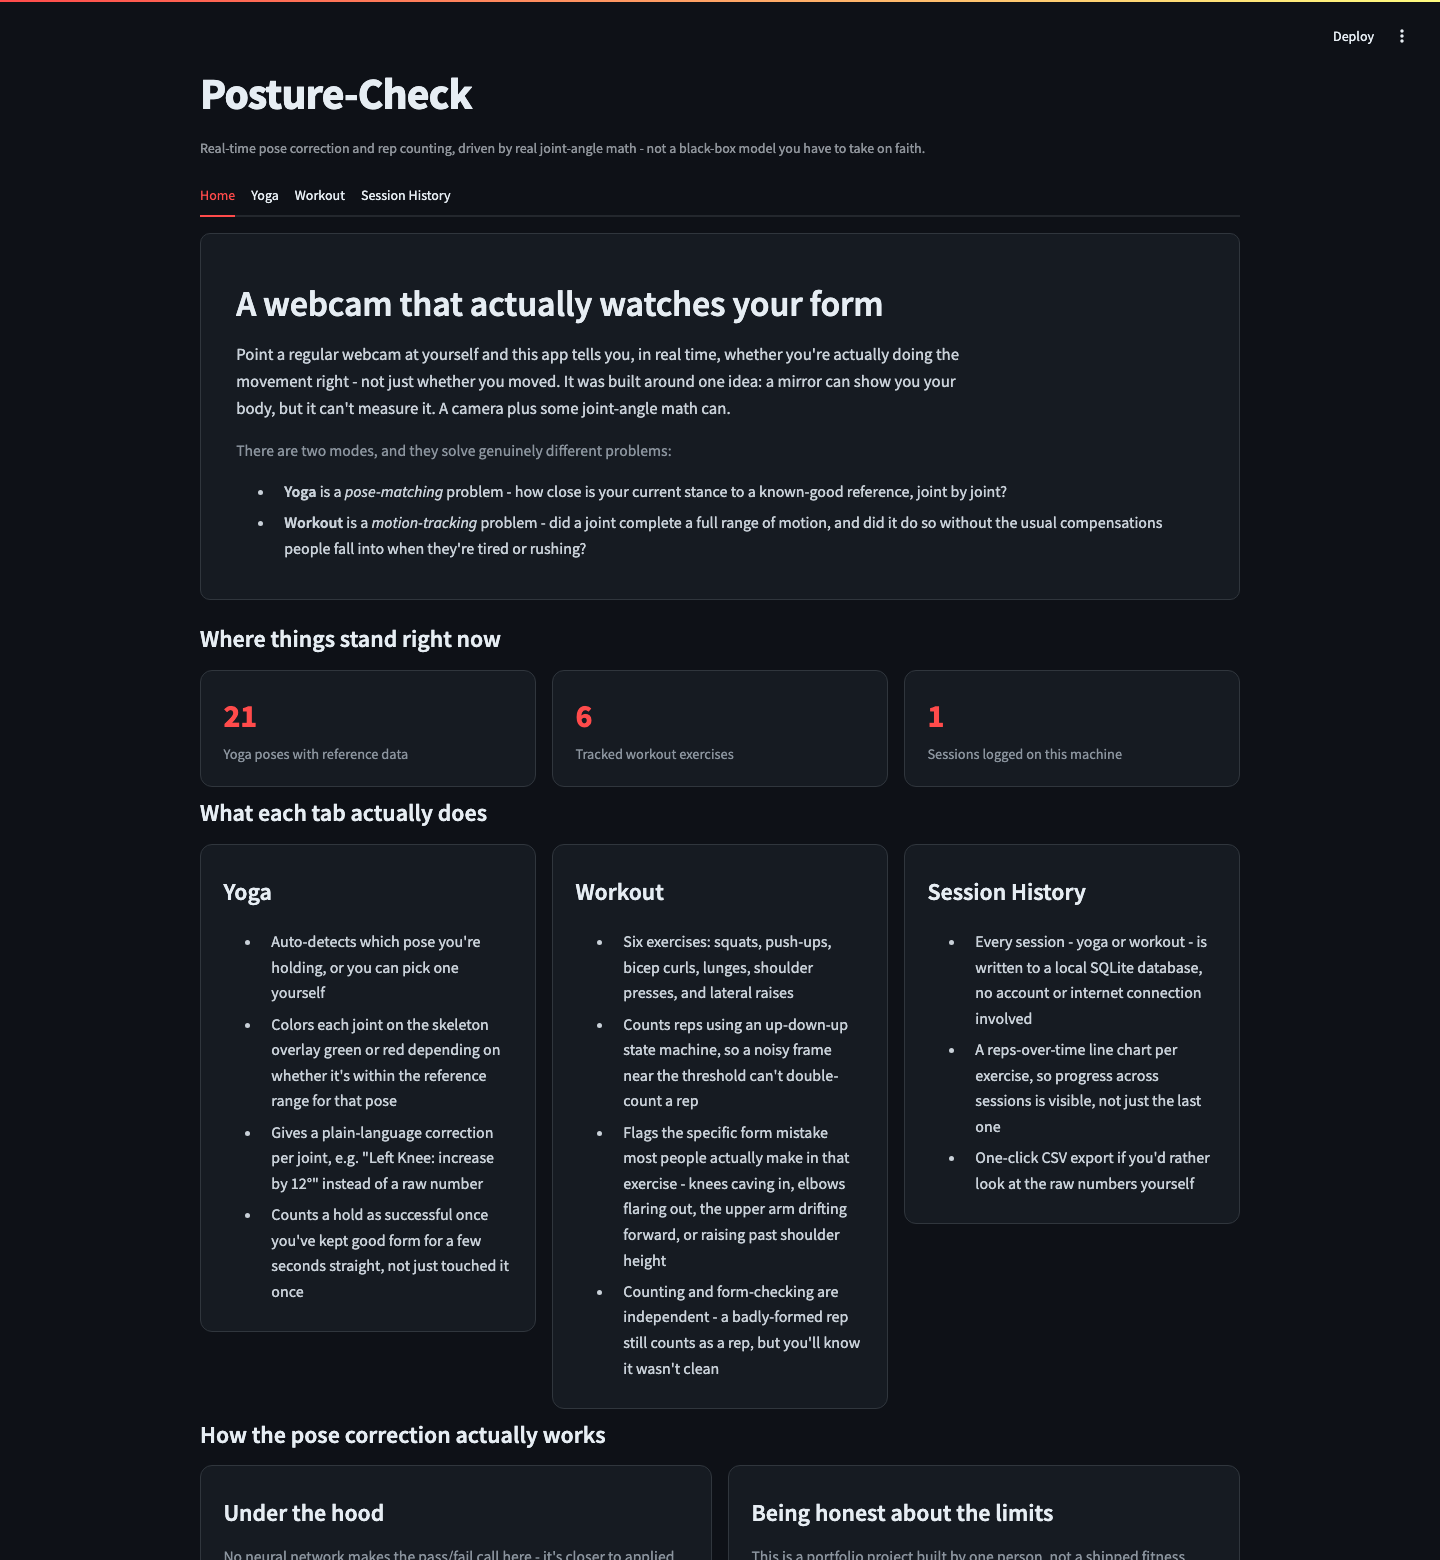
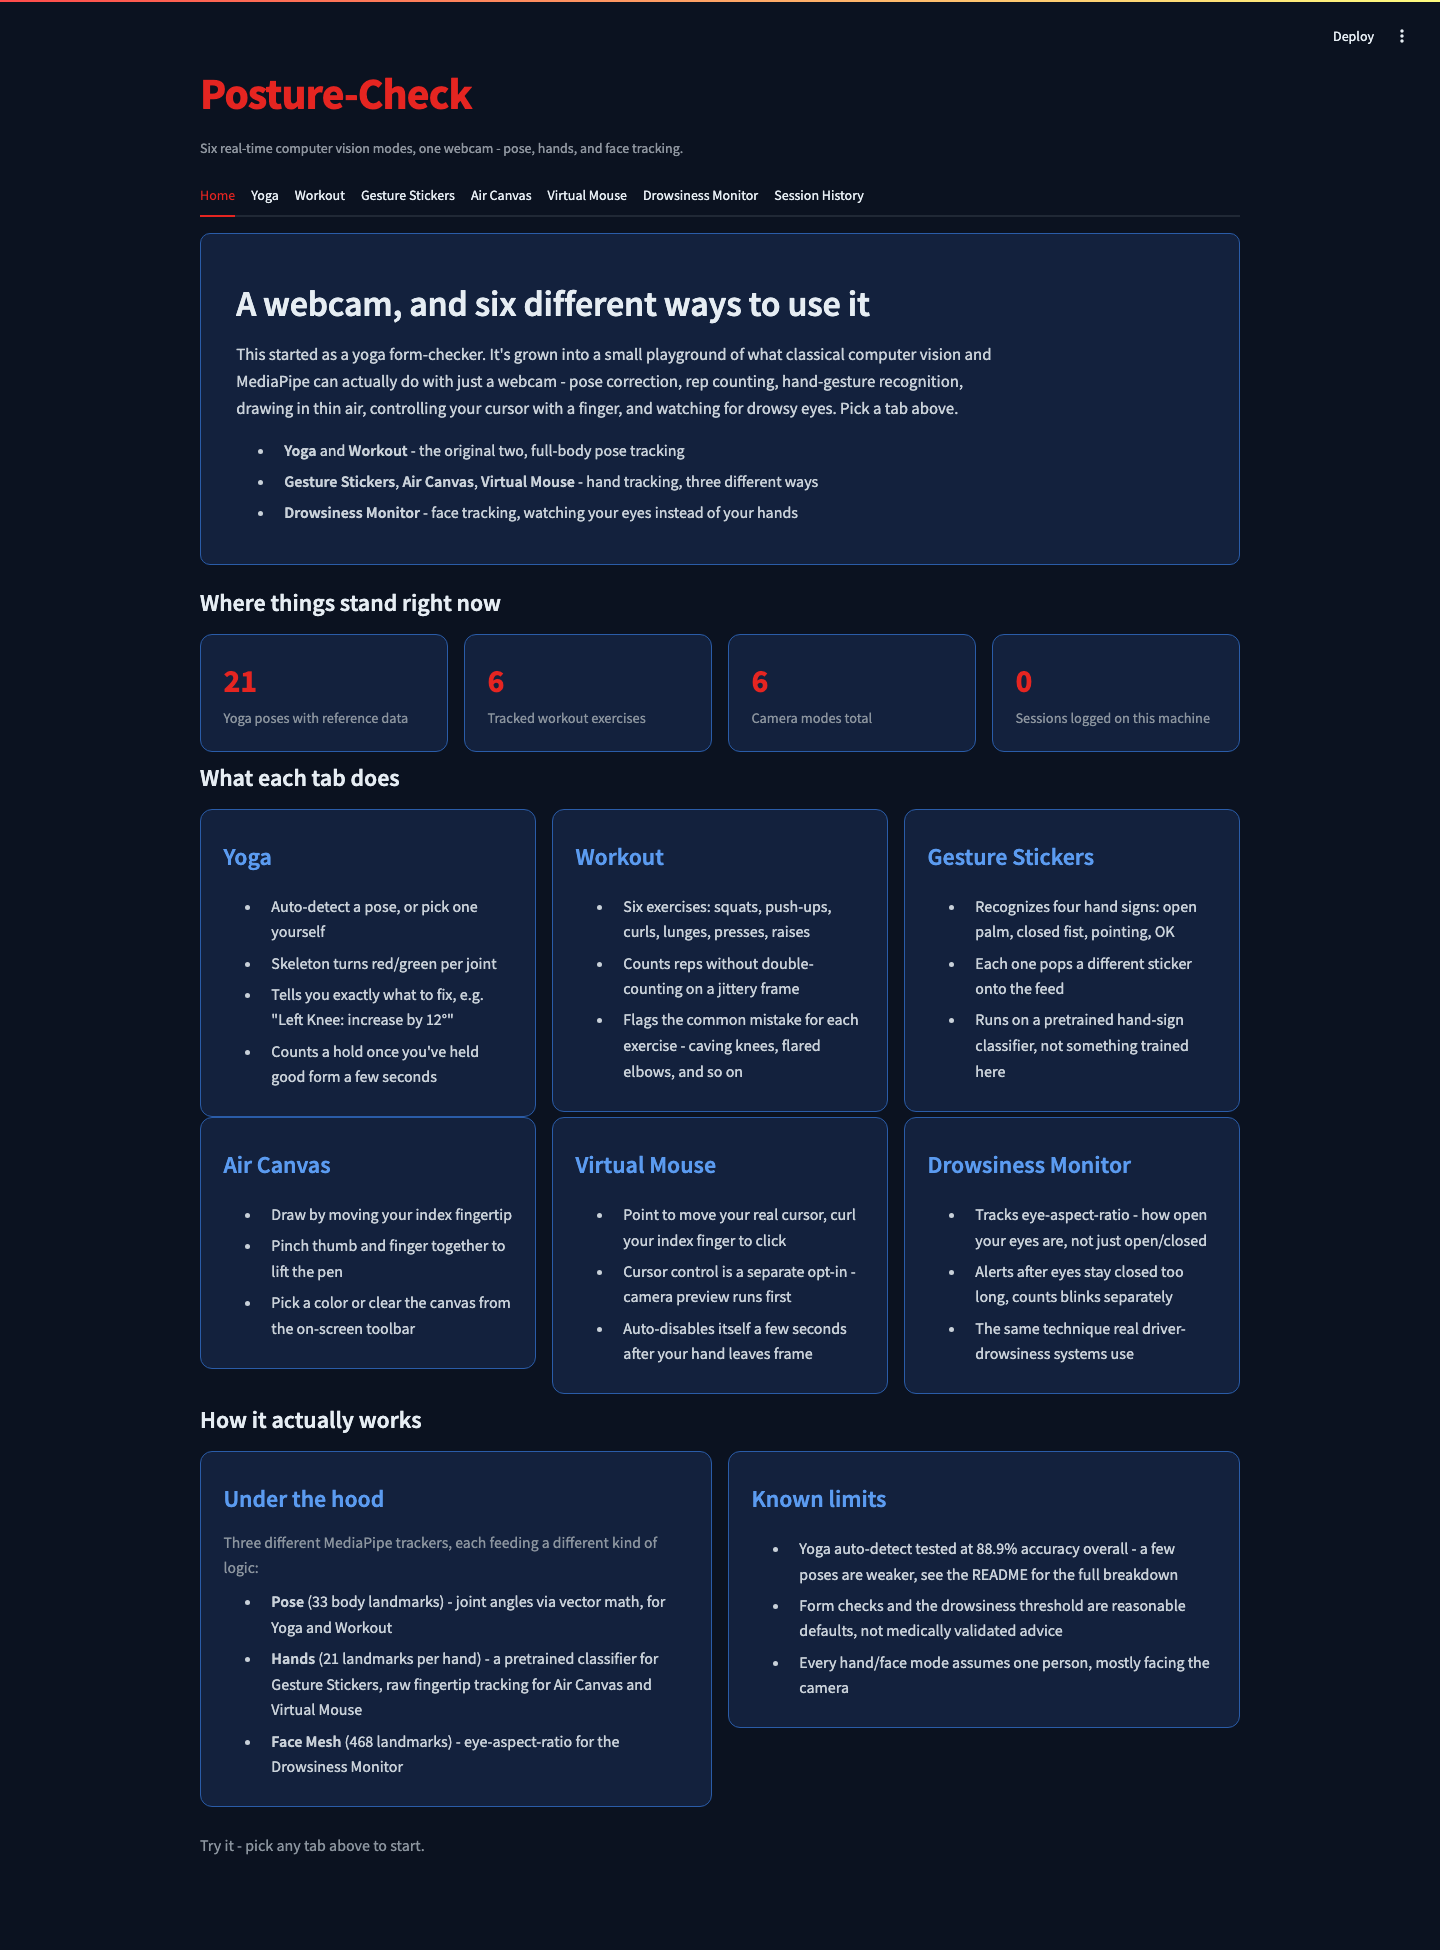
Rewrite README for the multi-mode CV playground pivot
The README still described the original two-mode (Yoga/Workout)
fitness app - rewrote it to cover all six modes, added real
screenshots of the four new ones (Gesture Stickers, Air Canvas,
Virtual Mouse, Drowsiness Monitor), and documented the technical
reasoning behind each (why a vendored classifier for gestures, why
pinch-to-lift-pen for Air Canvas, why cursor control is a separate
opt-in, why Face Mesh instead of dlib for drowsiness).

diff --git a/README.md b/README.md
@@ -1,66 +1,99 @@
 # Posture-Check
 
-A real-time AI fitness coach built on computer vision: holds you to real joint-angle references
-for yoga poses, counts reps for dynamic exercises, and catches bad form on both.
+A computer vision playground built on one webcam: pose correction and rep counting for yoga and
+workouts, plus hand-gesture recognition, drawing in the air, cursor control, and a drowsiness
+monitor - six modes, three different MediaPipe trackers (Pose, Hands, Face Mesh), one shared app.
 
-## Why this exists
-
-Pose-estimation demos usually stop at "draw a skeleton on the webcam feed." The actual useful
-part - telling someone *what's wrong* and *by how much* - needs a reference to compare against
-and a real rule for turning a joint angle into an instruction a person can act on. This project
-builds that: real joint-angle ranges mined from reference images (yoga), a rep-counting state
-machine with its own form checks (workout), and a dashboard that remembers what you did session
-to session.
+This started as a two-mode yoga/workout form-checker. It grew into this because the underlying
+question - "what can you actually build with a webcam and MediaPipe, beyond a skeleton overlay?"
+- turned out to have more interesting answers than just one.
 
 ## Screenshots
 
-**Home** - real stats pulled live from the data on disk, plus an honest breakdown of what each
-tab does and how the pose-correction math actually works:
+**Home** - real stats pulled live from the data on disk, and a breakdown of all six modes:
 
 ![Home tab](screenshots/home.png)
 
-**Yoga mode** - auto-detect vs. manual pose selection, live angle display, and voice feedback,
-before the camera starts:
+**Yoga** - auto-detect vs. manual pose selection, live angle display, voice feedback:
 
 ![Yoga tab](screenshots/yoga.png)
 
-**Workout mode** - pick an exercise, see its rep-counting joint and form check explained up
-front:
+**Workout** - pick an exercise, see its rep-counting joint and form check explained up front:
 
 ![Workout tab](screenshots/workout.png)
 
+**Gesture Stickers** - a pretrained hand-sign classifier triggers a procedurally-drawn sticker
+(no PNG assets - these are drawn with OpenCV primitives):
+
+![Sticker icons](screenshots/sticker_icons.png)
+
+**Air Canvas** - draw with your fingertip, pinch to lift the pen, pick a color from the toolbar:
+
+![Air Canvas tab](screenshots/air_canvas.png)
+
+**Virtual Mouse** - real hand-landmark tracking feeding cursor control (shown here with cursor
+control off - preview-only is the default):
+
+![Virtual Mouse tab](screenshots/virtual_mouse.png)
+
+**Drowsiness Monitor** - a real computed eye-aspect-ratio against a real face:
+
+![Drowsiness Monitor tab](screenshots/drowsiness_monitor.png)
+
 ## How it works
 
-**Yoga mode** - MediaPipe extracts 33 body landmarks per frame. For each of 10 tracked joints
-(knees, elbows, shoulders, hips, neck, spine), the angle between its three defining landmarks is
-computed via the standard vector dot-product formula (`arccos` of the normalized dot product).
-Each pose has a reference min/max range per joint, mined from sample images (`extraction.py`) and
-widened by a fixed tolerance for real-time webcam use. A live angle outside the reference range
-becomes a corrective hint ("Left Knee: increase by 12.0°"); holding every angle in range for 5
-continuous seconds completes the pose.
+Three different MediaPipe trackers feed six different pieces of logic:
 
-**Workout mode** - a different problem: counting reps of a dynamic exercise (squats, push-ups,
-bicep curls, lunges, shoulder presses, lateral raises), not holding a static position. Each
-exercise tracks one representative joint angle through a simple up/down state machine - crossing
-below a "down" threshold then back above an "up" threshold counts one rep, which avoids
-double-counting on a single noisy frame near a raw threshold. A second, independent check flags
-common form mistakes for that exercise (e.g. knees caving inward on a squat) - a rep still counts
-if the form is bad, since you did complete it, but the warning is logged and voiced.
+**Pose (33 body landmarks) - Yoga and Workout.** For each of 10 tracked joints, the angle between
+its three defining landmarks is computed via the standard vector dot-product formula (`arccos` of
+the normalized dot product). Yoga compares live angles against per-pose reference ranges mined
+from sample images (`extraction.py`); a live angle outside range becomes a corrective hint
+("Left Knee: increase by 12.0°"), and holding every angle in range for 5 seconds completes the
+pose. Workout counts reps of six exercises (squats, push-ups, bicep curls, lunges, shoulder
+presses, lateral raises) through a simple up/down state machine on one representative joint angle
+per exercise, with a second, independent check flagging common form mistakes.
+
+**Hands (21 landmarks per hand) - three different uses of the same tracker:**
+- *Gesture Stickers* runs a vendored, pretrained hand-sign classifier
+  ([kinivi/hand-gesture-recognition-mediapipe](https://github.com/kinivi/hand-gesture-recognition-mediapipe),
+  Apache-2.0 - see `YogaPoseDetection/models/gesture/ATTRIBUTION.md`) that recognizes four static
+  hand signs (open palm, closed fist, pointing, OK). Each one triggers a different
+  procedurally-drawn sticker overlay, alpha-blended onto the feed - the overlay rendering itself
+  is original code, built on top of the unmodified classifier.
+- *Air Canvas* tracks the index fingertip continuously and draws a line while it moves, using a
+  pinch (thumb close to the fingertip) to lift the pen - the same mental model as a real pen,
+  rather than a toolbar zone doubling as a pen-up/pen-down switch.
+- *Virtual Mouse* maps the index fingertip to the real system cursor and a curled index finger to
+  a click, reusing `geometry.calculate_angle` (already built for pose joint angles) for the
+  finger-curl check instead of a separate formula. Cursor control is a deliberate, separate opt-in
+  behind camera preview - moving your actual mouse is not something that should happen by default
+  just because a tab is open - and it auto-disables itself a few seconds after your hand leaves
+  the frame.
+
+**Face Mesh (468 landmarks) - Drowsiness Monitor.** Computes eye-aspect-ratio (EAR) - the ratio of
+how open each eye is to how wide it is - using MediaPipe's own face landmarks rather than the
+dlib + 68-point model most EAR tutorials use; this project already depends on MediaPipe for
+everything else, so a second, heavier face-landmark dependency (plus a separate ~100MB model file)
+wasn't worth it for a formula MediaPipe's own landmarks already support just as well. Eyes closed
+for about half a second triggers an alert; shorter closures are counted as ordinary blinks.
 
 ## Features
 
 - **Yoga**: auto-detect or manual pose selection, live angle display, a skeleton overlay colored
-  red/green per joint so you can see exactly what's off, 5-second hold-to-complete
-- **Workout**: rep counting for six exercises (squats, push-ups, bicep curls, lunges, shoulder
-  presses, lateral raises), with real-time form warnings (not just a rep count)
-- **Session history**: every session (yoga or workout) is logged to a local SQLite database, with
-  a reps-over-time trend view and a CSV export
-- **Voice feedback**: offline text-to-speech announces hints/form corrections out loud, no
-  internet/API required
-- **Two ways to run it**: a Streamlit web app (`app.py`, recommended) or the original OpenCV
-  window (`analysis.py`)
+  red/green per joint, 5-second hold-to-complete
+- **Workout**: rep counting for six exercises with real-time form warnings, not just a rep count
+- **Gesture Stickers**: real-time hand-sign recognition with an on-screen sticker response
+- **Air Canvas**: draw in the air, pinch-to-lift-pen, a 4-color toolbar
+- **Virtual Mouse**: hand-tracked cursor control, opt-in and auto-disabling for safety
+- **Drowsiness Monitor**: eye-aspect-ratio tracking with a blink counter and a sustained-closure
+  alert, voiced through the same offline text-to-speech used elsewhere in this app
+- **Session history**: every Yoga/Workout session is logged to a local SQLite database, with a
+  reps-over-time trend, personal-bests summary, and a CSV export
+- **Voice feedback**: offline text-to-speech, no internet/API required
+- **Two ways to run the original two modes**: the Streamlit app (recommended) or the original
+  OpenCV window (`analysis.py`) for Yoga/Workout specifically
 
-## How accurate is auto-detect, really?
+## How accurate is yoga auto-detect, really?
 
 Leave-one-out evaluation (`evaluate.py`): for every reference image with at least one sibling in
 its pose folder, hold it out, rebuild that pose's angle range from the remaining images, and check
@@ -68,43 +101,38 @@ whether auto-detect correctly identifies the held-out image against all 21 poses
 
 **Result: 88.9% accuracy overall** (81 images evaluated). Per-pose, most poses hit 100%, but a few
 are noticeably weaker - bow-pose (33%), and locust/reverse-warrior/sphinx/triangle/upward-salute
-(67% each) - which tracks with those poses having only 3 reference images each. This is a small-
-sample estimate, not a rigorous benchmark, and it's reported honestly rather than only quoting the
-headline number.
+(67% each) - which tracks with those poses having only 3 reference images each.
 
 ## A real, known data limitation
 
 Reference images per pose range from 3 to 7 - thin enough that `extraction.py` has to widen each
-joint's derived range by a fixed ±25° to have any real-time tolerance, rather than deriving that
-tolerance from genuine statistical spread. The `dataset/` folder itself isn't included in this
-repo (see below) - if you want to improve on this, dropping more varied reference images into
-`dataset/<pose-name>/` and re-running `extraction.py` is the direct way to raise the evaluation
-numbers above.
+joint's derived range by a fixed ±25° rather than deriving that tolerance from genuine statistical
+spread. The `dataset/` folder isn't included in this repo (the images aren't mine to redistribute)
+- drop your own into `dataset/<pose-name>/` and re-run `extraction.py` to improve on this.
 
 ## Project structure
 
 ```
 YogaPoseDetection/
-  geometry.py      # shared landmark/angle math
-  feedback.py       # yoga pose comparison
-  renderer.py        # skeleton overlay + side panel drawing
-  workout.py          # rep counting + form checks
-  storage.py            # session history (SQLite)
-  voice.py                # offline text-to-speech
-  extraction.py             # builds angles.json from dataset/ images
-  evaluate.py                # leave-one-out accuracy evaluation
-  analysis.py                  # OpenCV-window entry point
-  app.py                        # Streamlit entry point (recommended)
-  angles.json                    # derived joint-angle ranges (included)
-  dataset/                        # NOT included - see note below
-  tests/                            # pytest coverage for the pure logic
+  geometry.py        # shared landmark/angle math (reused by Yoga, Workout, and Virtual Mouse)
+  feedback.py         # yoga pose comparison
+  renderer.py           # skeleton overlay, side panel, and sticker-overlay drawing
+  workout.py             # rep counting + form checks
+  gestures.py              # hand-sign classification (Gesture Stickers)
+  air_canvas.py              # finger-drawing state machine (Air Canvas)
+  virtual_mouse.py             # hand-tracked cursor control (Virtual Mouse)
+  drowsiness.py                  # eye-aspect-ratio tracking (Drowsiness Monitor)
+  storage.py                       # session history (SQLite)
+  voice.py                           # offline text-to-speech
+  extraction.py                        # builds angles.json from dataset/ images
+  evaluate.py                            # leave-one-out accuracy evaluation
+  analysis.py                              # OpenCV-window entry point (Yoga/Workout only)
+  app.py                                     # Streamlit entry point - all six modes
+  angles.json                                  # derived joint-angle ranges (included)
+  models/gesture/                                # vendored pretrained hand-sign classifier
+  dataset/                                         # NOT included - see note above
+  tests/                                             # pytest coverage for the pure logic
 ```
-
-`dataset/` (the pose reference images `extraction.py`/`evaluate.py` run against) isn't committed
-here - the images were sourced from various sites during development and aren't mine to
-redistribute. `angles.json` (the actual derived ranges) is included and is all `analysis.py`/
-`app.py` need to run. Drop your own images into `dataset/<pose-name>/` if you want to regenerate
-or evaluate it yourself.
 
 ## Setup
 
@@ -112,9 +140,13 @@ or evaluate it yourself.
 pip install -r requirements.txt
 ```
 
+On macOS, if you plan to use Virtual Mouse, grant the terminal/IDE running Streamlit Accessibility
+permission (System Settings → Privacy & Security → Accessibility) - `pyautogui`/`pynput` need it
+to move the real cursor.
+
 ## Run it
 
-**Streamlit app (recommended):**
+**Streamlit app (recommended - all six modes):**
 
 ```bash
 cd YogaPoseDetection
@@ -122,10 +154,9 @@ streamlit run app.py
 ```
 
 (Streamlit looks for its theme config relative to the current directory, not the script's own
-location - running it from the repo root instead would still work, but without the custom
-theme.)
+location - running it from the repo root instead would still work, but without the custom theme.)
 
-**Original OpenCV window:**
+**Original OpenCV window (Yoga/Workout only):**
 
 ```bash
 cd YogaPoseDetection
@@ -141,14 +172,19 @@ pytest tests/
 
 ## Limitations
 
-- Single-person only - multiple people in frame will confuse the pose detector
-- Sensitive to camera angle and lighting, like any single-camera pose-estimation setup
-- The thin reference dataset (see above) is the main lever for improving accuracy further
-- Form checks (knee valgus, elbow flare, upper-arm drift) are reasonable heuristics for a demo,
-  not biomechanically validated coaching advice
+- Every mode assumes one person, mostly facing the camera - multiple people or extreme angles
+  will confuse all three trackers, not just Pose
+- Form checks, the drowsiness EAR threshold, and the gesture set (4 static hand signs) are
+  reasonable defaults, not medically validated or exhaustive
+- Virtual Mouse's click gesture (a curled index finger) can false-trigger if your hand rests in a
+  loose fist shape - it's tuned for a deliberate motion, not passive holding
+- The thin yoga reference dataset (see above) is the main lever for improving yoga accuracy further
 
 ## What I'd improve with more time
 
-- A proper evaluation set captured specifically for testing (not reused training images)
-- More exercises and poses, each with enough reference images for real statistical ranges
-- A proper rolling, continuous voice-feedback mode instead of the current cooldown-based one
+- A proper evaluation set for yoga, captured specifically for testing (not reused training images)
+- More gesture classes for Gesture Stickers (the vendored model only recognizes four)
+- A calibration step for Drowsiness Monitor's EAR threshold, since eye shape varies enough between
+  people that one fixed threshold is a compromise, not a precise fit for everyone
+- Multi-hand support for Air Canvas (two-handed drawing, or one hand drawing while the other picks
+  colors without reaching for the toolbar)
